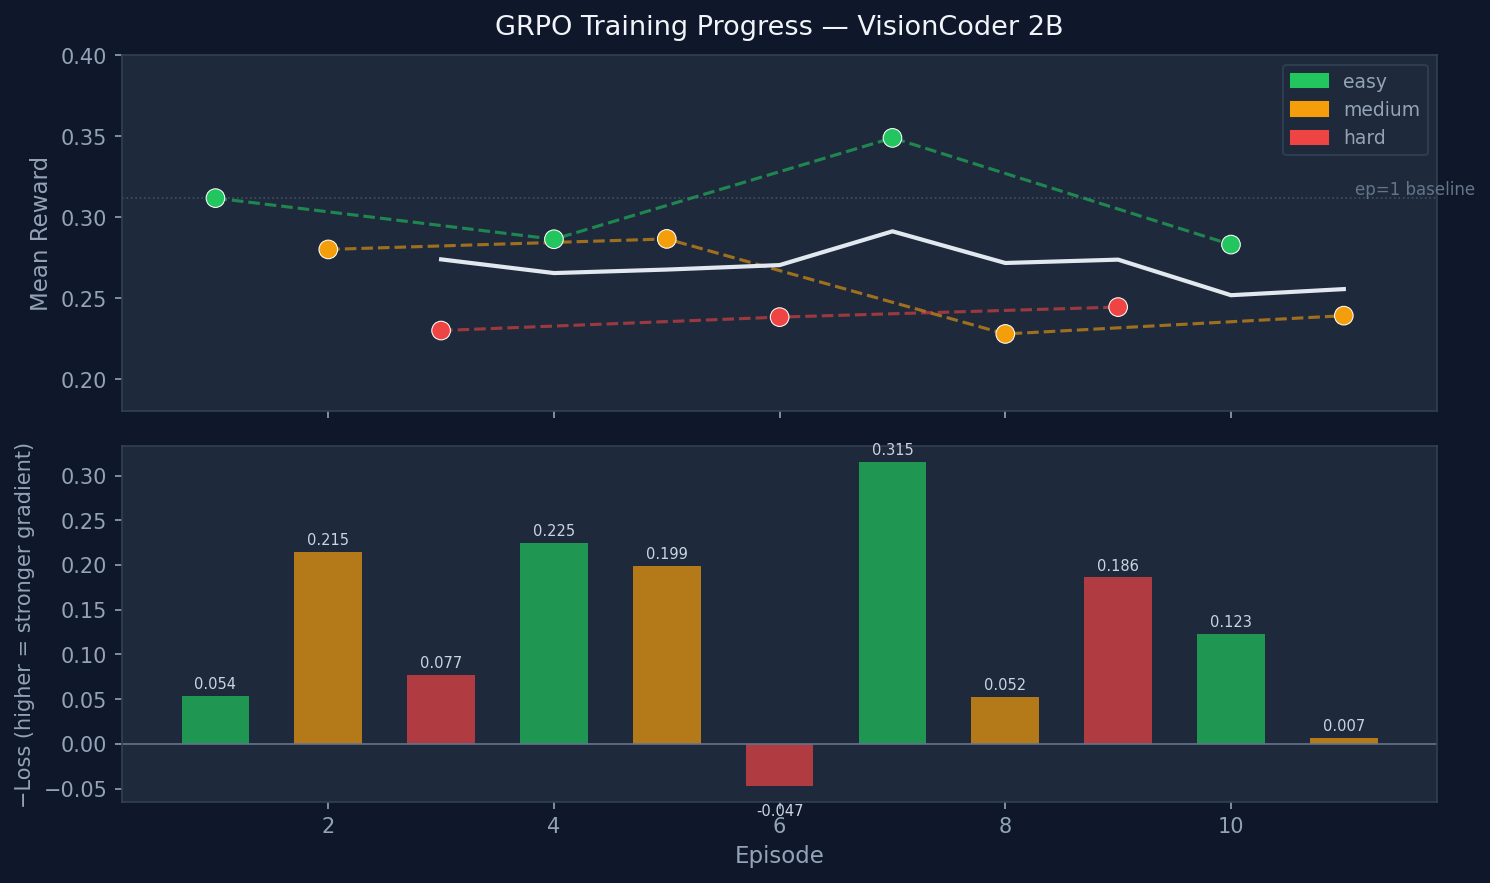
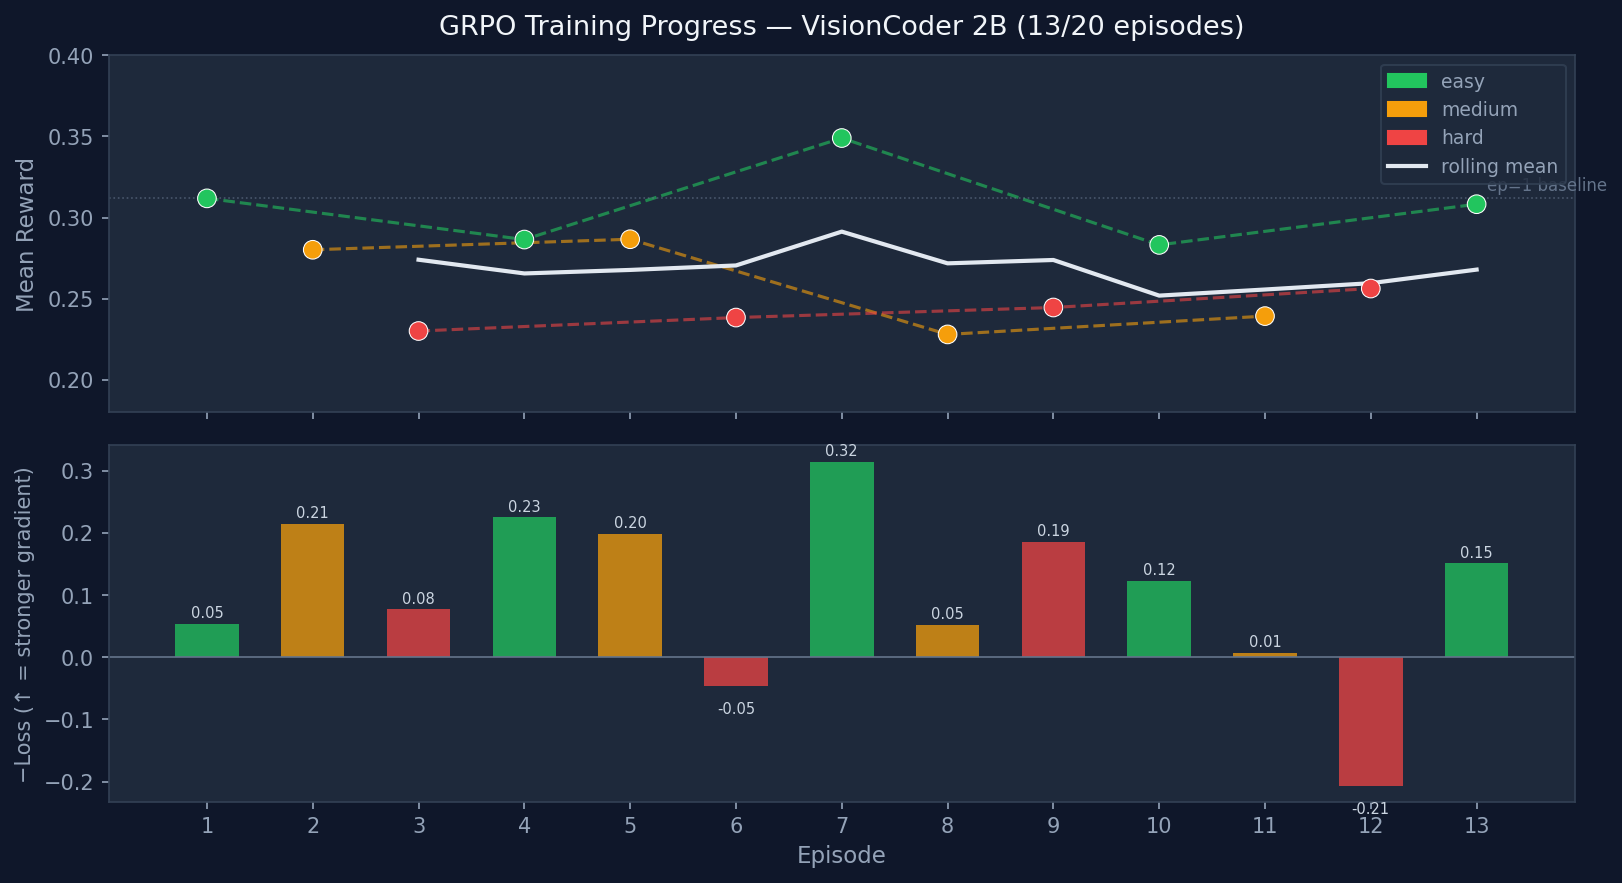
docs: training curve ep=13 — easy steady at 0.308, hard best at 0.256

diff --git a/blog.md b/blog.md
@@ -168,14 +168,14 @@ Live reward curve (updating as training runs):
 | 10 | easy | 0.283 | 1.5 | −0.123 |
 | 11 | medium | 0.239 | 1.0 | −0.007 |
 | 12 | hard | **0.256** | 1.5 | +0.207 |
+| 13 | easy | 0.308 | 1.2 | −0.151 |
 | … | … | … | … | … |
 
-**Observations (12/20 episodes, training in progress):**
-- **Easy trend**: 0.312 → 0.286 → **0.349** → 0.283 — peak at ep=7; ep=10 dip from MAX_NEW_TOKENS=1024 truncating HTML (fixed to 2048 for run 2)
-- **Medium trend**: 0.280 → 0.287 → 0.228 → 0.239 — oscillates; Critic early-termination (mean_steps=1.0 at ep=8,11) collapses gradient variance
-- **Hard trend**: 0.230 → 0.238 → 0.245 → **0.256** — consistent upward gradient; ep=12 is the highest hard score yet
-- Loss +0.207 at ep=12 is the GRPO pushing down below-average rollouts (expected when variance is high and some rollouts underperform)
-- Table and plot will be updated as remaining 8 episodes complete
+**Observations (13/20 episodes, training in progress):**
+- **Easy trend**: 0.312 → 0.286 → **0.349** → 0.283 → 0.308 — peak at ep=7; oscillates but stays above baseline after ep=10
+- **Medium trend**: 0.280 → 0.287 → 0.228 → 0.239 — oscillates; Critic early-termination (mean_steps=1.0) collapses gradient variance for medium tasks
+- **Hard trend**: 0.230 → 0.238 → 0.245 → **0.256** — most consistent improvement; 2-step rollouts give better GRPO signal than 1-step
+- Table and plot will be updated as remaining 7 episodes complete
 
 ---
 
